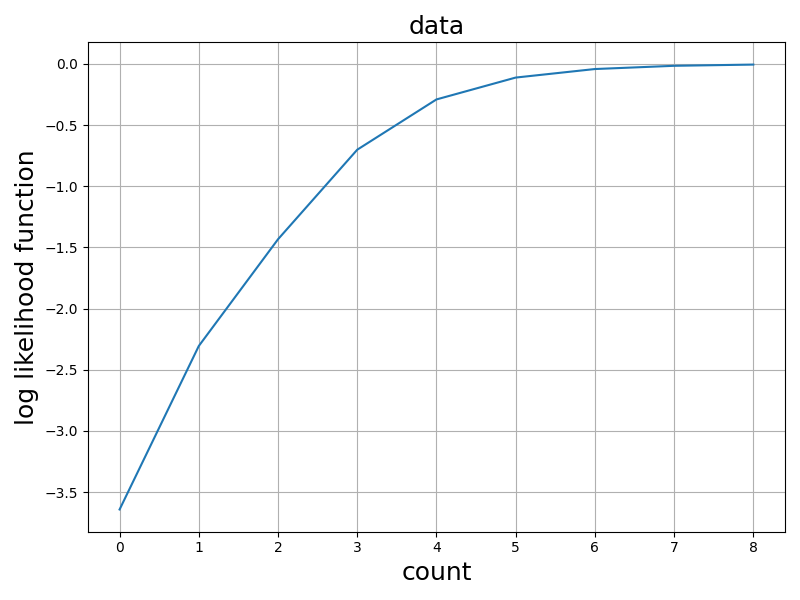
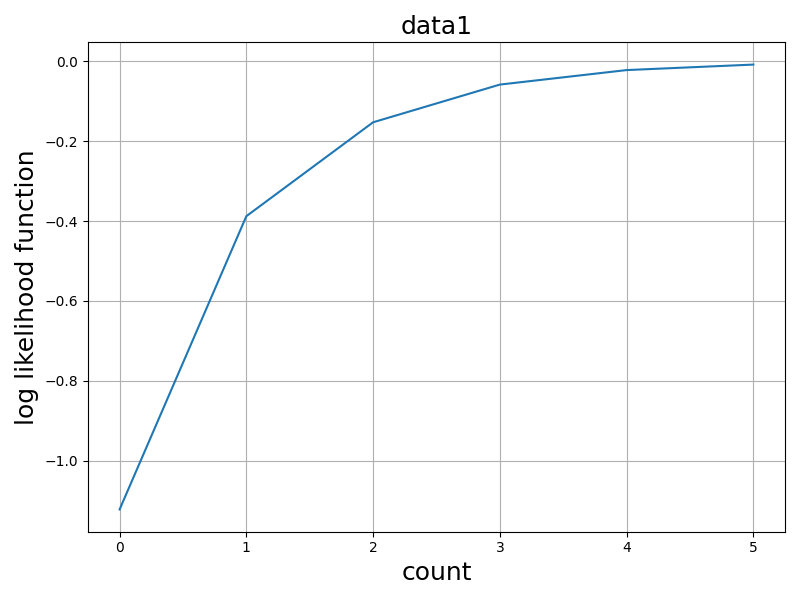
fix graph name and EM algorithm

diff --git a/ex7/d_ide/gmm.py b/ex7/d_ide/gmm.py
@@ -5,7 +5,7 @@ import numpy as np
 from scipy.stats import multivariate_normal
 
 
-def scatter_1d(data, clu, vec, cov, pi):
+def scatter_1d(data, clu, vec, cov, pi, savename):
     """1D scatter plots.
 
     Args:
@@ -37,7 +37,7 @@ def scatter_1d(data, clu, vec, cov, pi):
 
     ax.set_xlabel("x")
     ax.set_ylabel("gaussian distribution")
-    plt.title("data")
+    plt.title(savename)
     plt.grid()
     plt.legend()
     plt.tight_layout()
@@ -45,7 +45,7 @@ def scatter_1d(data, clu, vec, cov, pi):
     plt.show()
 
 
-def scatter_2d(data, clu, vec, cov, pi):
+def scatter_2d(data, clu, vec, cov, pi, savename):
     """2D scatter plots.
 
     Args:
@@ -88,7 +88,7 @@ def scatter_2d(data, clu, vec, cov, pi):
 
     ax.set_xlabel("x")
     ax.set_ylabel("y")
-    plt.title("data")
+    plt.title(savename)
     plt.grid()
     plt.legend()
     plt.tight_layout()
@@ -96,7 +96,7 @@ def scatter_2d(data, clu, vec, cov, pi):
     plt.show()
 
 
-def logplot(log_list):
+def logplot(log_list, savename):
     """Plot the log-likelihood function.
 
     Args:
@@ -107,10 +107,10 @@ def logplot(log_list):
     ax.plot(log_list)
     ax.set_xlabel("count", fontsize=18)
     ax.set_ylabel("log likelihood function", fontsize=18)
-    plt.title("data", fontsize=18)
+    plt.title(savename, fontsize=18)
     plt.grid()
     plt.tight_layout()
-    plt.savefig("result/log.png")
+    plt.savefig(savename)
     plt.show()
 
 

diff --git a/ex7/d_ide/main.py b/ex7/d_ide/main.py
@@ -23,6 +23,12 @@ def parse_args():
         default=2,
         help="number of cluster",
     )
+    parser.add_argument(
+        "--save_name",
+        type=str,
+        default="data1",
+        help="name of savefile",
+    )
 
     return parser.parse_args()
 
@@ -80,6 +86,7 @@ def main():
     args = parse_args()
     fname = args.csv_file
     cluster = args.cluster
+    savename = args.save_name
 
     df, data = open_csv(fname)
     num, dim = data.shape
@@ -89,12 +96,12 @@ def main():
 
     clu = np.argmax(gamma, axis=0)
     if dim == 1:
-        gmm.scatter_1d(data, clu, vec, cov, pi)
+        gmm.scatter_1d(data, clu, vec, cov, pi, savename)
     elif dim == 2:
-        gmm.scatter_2d(data, clu, vec, cov, pi)
+        gmm.scatter_2d(data, clu, vec, cov, pi, savename)
     else:
         "error: dimension"
-    gmm.logplot(log_list)
+    gmm.logplot(log_list, savename)
 
 
 if __name__ == "__main__":
